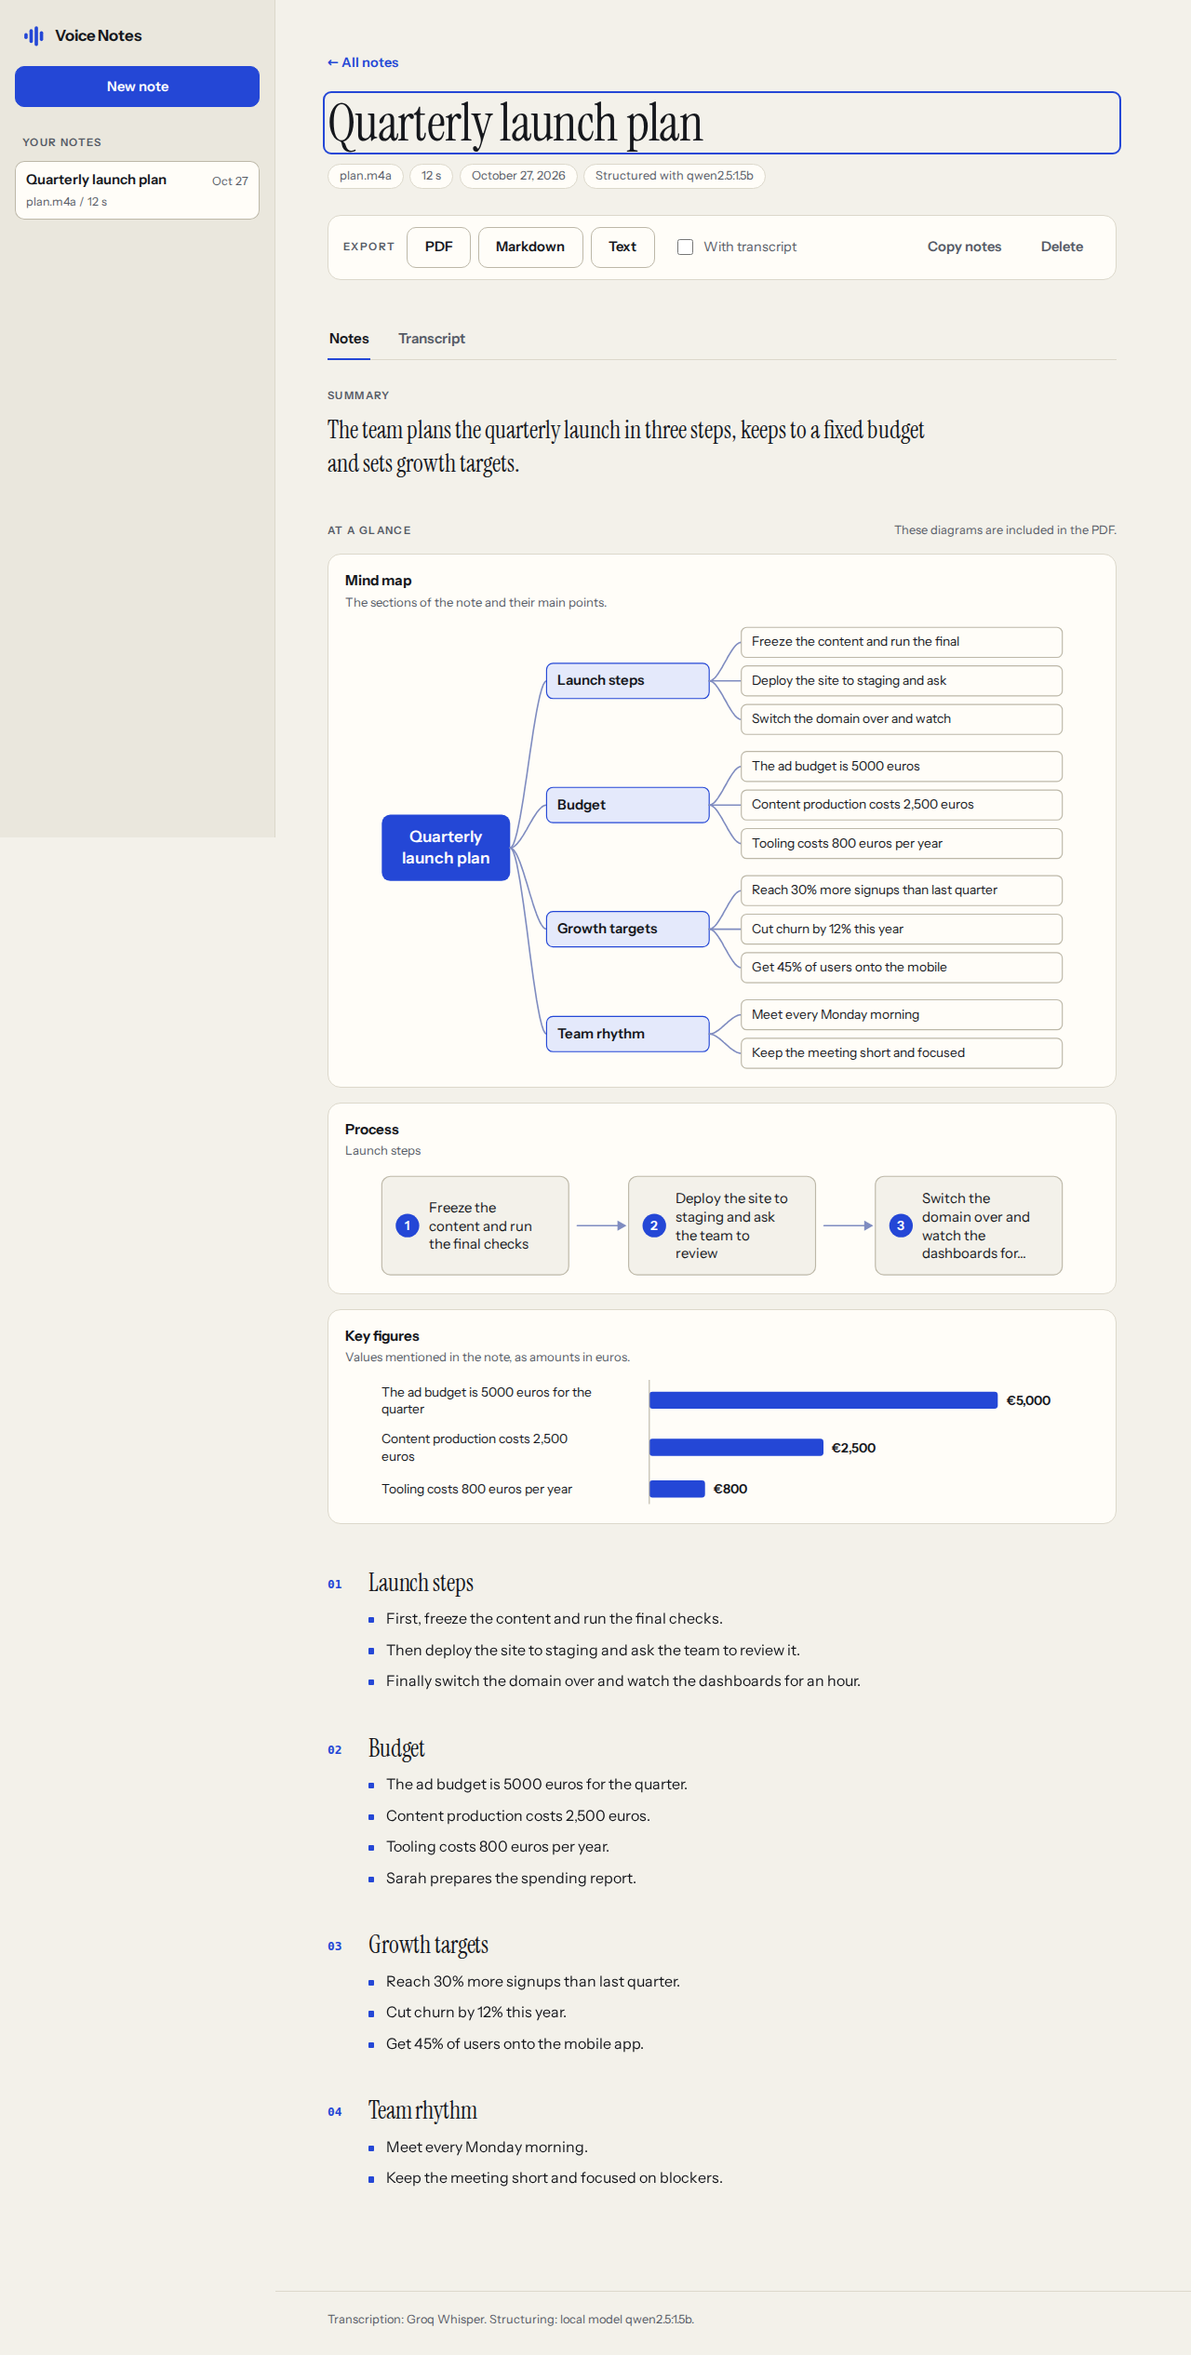
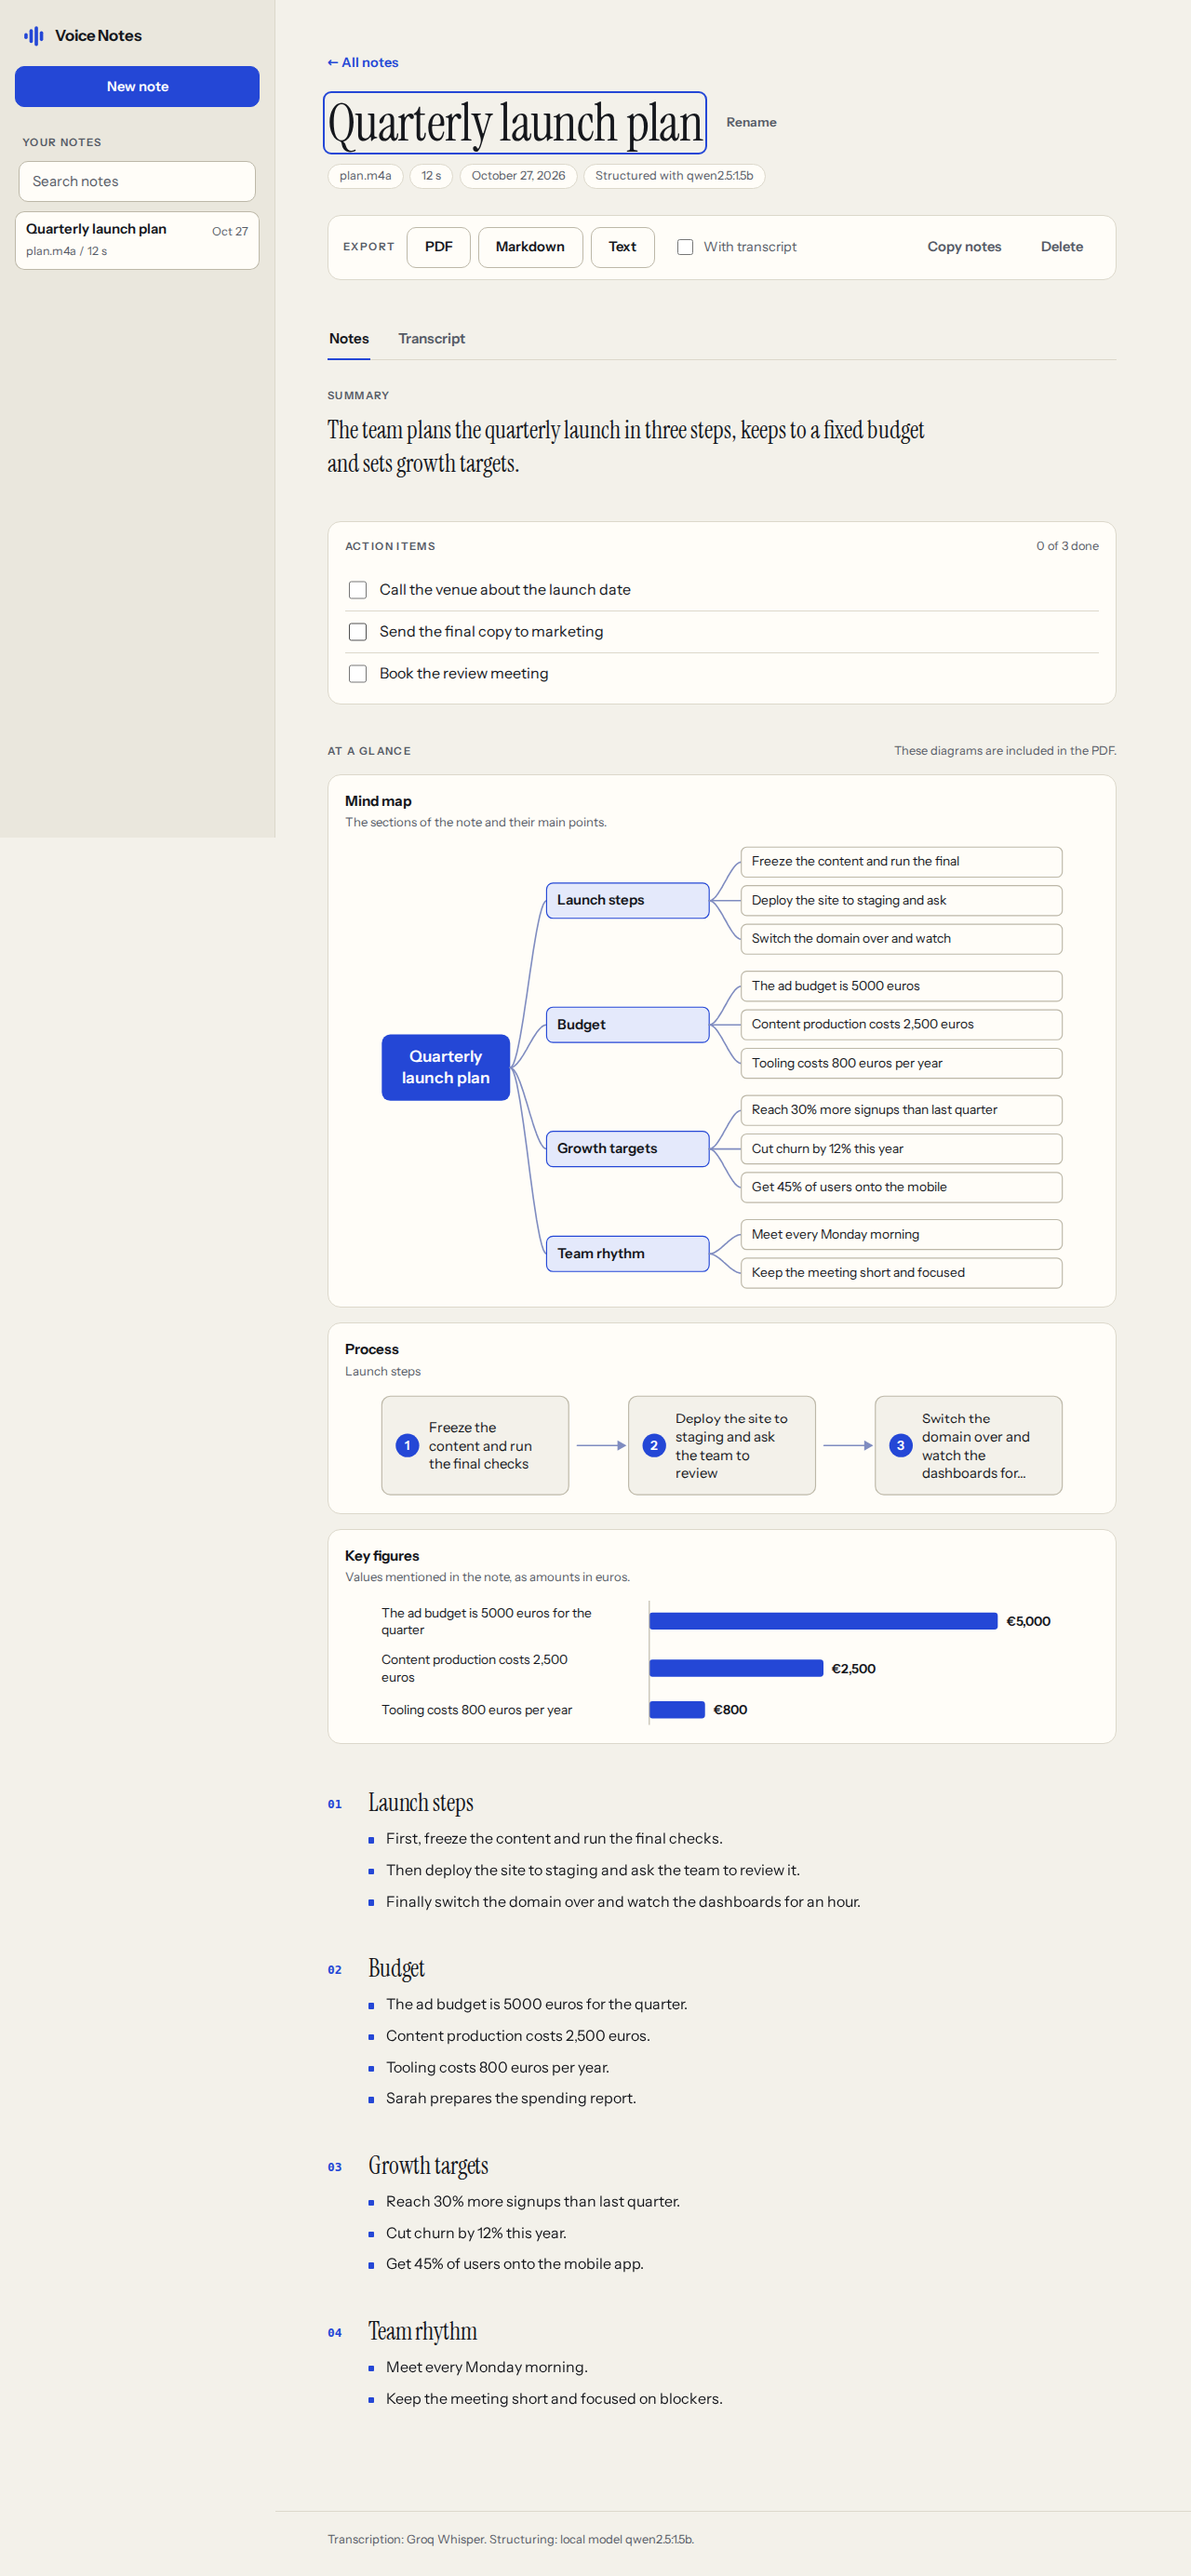
Update the README and screenshots

diff --git a/README.md b/README.md
@@ -15,11 +15,14 @@ I built it for my own use: I record ideas while walking, and I want to find clea
 ## Features
 
 - Upload audio or video files up to 200 MB (MP3, M4A, WAV, OGG, FLAC, WebM, MP4 and more), by drag and drop or file picker, or record straight from the browser (needs https or localhost for microphone access).
-- Long recordings are converted and split with ffmpeg into chunks well under Groq's 25 MB free tier limit, transcribed one by one and joined.
+- Long recordings are converted and split with ffmpeg into chunks well under Groq's 25 MB free tier limit, transcribed one by one and joined. Chunks are cut in the quiet gaps between words, so no word is split in two; when there is no gap, the next chunk starts two seconds early and the repeated words are removed when the texts are joined.
 - Structuring with a small local model served by Ollama. If Ollama is not running, a rule-based fallback still produces a title, summary and sections, and the interface says which one was used. If the model fails on one part of a long note, only that part falls back to the rules.
 - Diagrams built from the notes where they help: a mind map of the sections, a process flow when the speaker describes steps in order, and a bar chart when several amounts or percentages are mentioned. They appear in the online notes and in the PDF. See the next section.
+- Action items: tasks the speaker sets for themselves ("I need to call...", "remember to...", "il faut...") are collected in a checklist with tick boxes in the page (remembered in your browser), as empty boxes in the PDF and as `- [ ]` lines in Markdown.
 - Export to PDF, TXT or Markdown, with or without the full transcript (split into readable paragraphs).
-- Live progress through each step, clear error messages, and a list of notes that survives a restart. Failed notes can be removed.
+- Rename a note, and search all your notes (titles, summaries, bullets, action items, file names and the full transcript) from the list.
+- Live progress through each step, with the time spent on the current step, the place in the queue and a clear statement of how the notes are built. When Ollama is not available the page says so, and why.
+- A note that failed because of a temporary problem (the transcription service did not answer, the server restarted) can be tried again without uploading the file once more. The recording is kept for a week for that purpose, or until the note is deleted.
 - Keyboard friendly, works on phones, follows the system light or dark setting.
 - No build step: the frontend is plain HTML, CSS and JavaScript. The two typefaces (Instrument Sans and Instrument Serif) are bundled, so nothing is loaded from another site.
 
@@ -83,7 +86,7 @@ Everything is set through environment variables.
 | `OLLAMA_MODEL` | `qwen2.5:1.5b` | Model used for structuring. |
 | `OLLAMA_HOST_URL` | `http://127.0.0.1:11434` | Where Ollama listens. |
 | `OLLAMA_TIMEOUT` | `240` | Seconds to wait for one model call before falling back. |
-| `DATA_DIR` | `./data` | Where notes are stored. Uploaded audio is deleted once processed. |
+| `DATA_DIR` | `./data` | Where notes are stored. Uploaded audio is deleted once a note is done; for a failed note that can be retried it is kept for up to a week. |
 | `FFMPEG_BIN` | `ffmpeg` | Path to the ffmpeg executable. |
 
 ## Running it
@@ -101,19 +104,21 @@ The app has no login. Anyone who can reach the port can upload files and spend y
 ## How it works
 
 1. The upload is saved to disk in 1 MB blocks and refused as soon as it passes the size limit.
-2. ffmpeg converts it to mono 16 kHz MP3 and cuts it into chunks. At 48 kbit/s ten minutes are about 3.6 MB, so even a 4 hour recording stays far below the Groq limit per file.
-3. Each chunk is sent to Groq Whisper. Rate limits and temporary errors are retried with backoff.
+2. ffmpeg converts it to mono 16 kHz MP3 and cuts it into chunks. At 48 kbit/s ten minutes are about 3.6 MB, so even a 4 hour recording stays far below the Groq limit per file. Each cut is made at the quiet gap closest to the target length (found with ffmpeg's `silencedetect`).
+3. Each chunk is sent to Groq Whisper. Rate limits and temporary errors are retried with backoff. Chunks that had to start in the middle of speech repeat two seconds of the one before; the repeated words are found with a fuzzy match and removed.
 4. The joined transcript is split on sentence boundaries into pieces of about 3500 characters. Each piece goes to the local model, which answers in JSON (title, summary, sections with bullets). A final short call writes the overall title and summary.
-5. If Ollama is missing or a call fails, the rule-based structuring takes over for the whole note.
+5. If Ollama is missing or a call fails, the rule-based structuring takes over (for the whole note when the model is missing, and only for the failing part when it fails on one piece). The rules remove spoken filler and repeated sentences, start a new section where the vocabulary changes, name sections after their most repeated word pair, take the title from "a note about ..." openings and collect the action items.
 
 ## API
 
 | Method | Path | Description |
 | --- | --- | --- |
-| `GET` | `/api/health` | Server status: ffmpeg, key present, Ollama state. |
+| `GET` | `/api/health` | Server status: ffmpeg, key present, Ollama state, and `structuring` (the engine the next note will use and, if it is the fallback, why). |
 | `POST` | `/api/notes` | Multipart upload with a `file` field. Returns `{"id": ...}` with status 202. |
-| `GET` | `/api/notes` | Recent notes. |
+| `GET` | `/api/notes?q=garden` | Recent notes. With `q`, only the notes that contain every word of it, best title matches first, each with a `snippet`. |
 | `GET` | `/api/notes/{id}` | Status, progress and, once done, the notes, the transcript (also as `transcript_paragraphs`) and the `visuals` drawings. |
+| `PATCH` | `/api/notes/{id}` | Rename a finished note: `{"title": "..."}`. |
+| `POST` | `/api/notes/{id}/retry` | Run a failed note again (202), or 409 when it cannot be retried. |
 | `GET` | `/api/notes/{id}/export?format=pdf\|txt\|md&transcript=true` | Download an export. |
 | `DELETE` | `/api/notes/{id}` | Delete a note. |
 
@@ -131,7 +136,7 @@ playwright install chromium
 pytest tests/e2e
 ```
 
-They cover upload validation, the full upload to export flow (PDF, TXT and Markdown downloads), error screens, keyboard use, recording with a fake microphone, text contrast in light and dark mode, and the layout at desktop, tablet and phone widths: nothing may overflow, and the text of every diagram is measured to sit inside its box and keep readable contrast. Set `SCREENSHOT_DIR` to save screenshots of each screen.
+They cover renaming, searching, the checklist, retrying, the status text and the queue message, upload validation, the full upload to export flow (PDF, TXT and Markdown downloads), error screens, keyboard use, recording with a fake microphone, text contrast in light and dark mode, and the layout at desktop, tablet and phone widths: nothing may overflow, and the text of every diagram is measured to sit inside its box and keep readable contrast. Set `SCREENSHOT_DIR` to save screenshots of each screen.
 
 ## Project layout
 
@@ -153,9 +158,10 @@ deploy/           example systemd unit
 ## Known limits
 
 - One recording is processed at a time; others wait in a queue.
-- Chunks are cut at fixed times, so a word at a boundary can occasionally be split.
+- Very noisy recordings may have no quiet gaps; the overlap then does the work, and a repeated phrase at the exact seam can occasionally be dropped or kept twice.
 - PDF export covers Latin, Greek and Cyrillic text. Arabic, Hebrew and Chinese are not rendered correctly yet.
-- Notes cannot be edited in the interface yet.
+- A note can be renamed, but its text cannot be edited in the interface yet.
+- Action items are found with simple phrases ("need to", "should", "remember to" and a few French and Spanish ones). A task said in other words is not picked up.
 - Diagrams use simple rules on the note text. A note that never says its steps in order or never gives numbers will not get a process or chart, by design.
 - Recording in the browser is only offered on https or localhost, because browsers block the microphone elsewhere.
 
